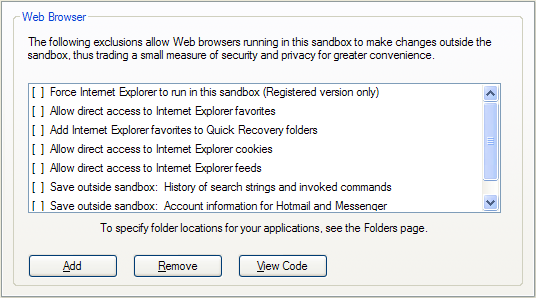
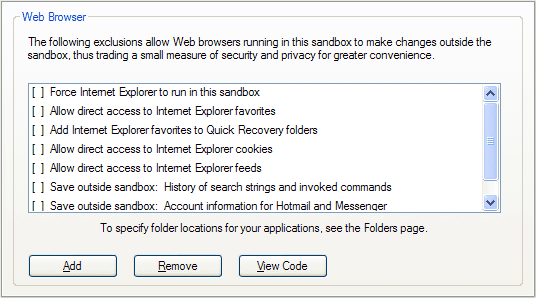
Remove registered references

Changed region(s): [[0.4776, 0.2718, 0.7164, 0.3322], [0.0896, 0.0302, 0.1493, 0.0906], [0.0299, 0.0302, 0.0597, 0.0604]]

diff --git a/Content/ProgramStartSettings.md b/Content/ProgramStartSettings.md
@@ -30,8 +30,6 @@ Notes:
 
 *   Forced Folders take precedence over [Forced Programs](ProgramStartSettings.md#forced-programs). In other words, when a program matches both a Forced Folders and a Forced Programs setting, the Forced Folder setting will apply, and the Forced Programs setting will be ignored.
 
-*   The Forced Folders setting is only available in the registered version of Sandboxie.
-
 Related [Sandboxie Ini](SandboxieIni.md) setting: [ForceFolder](ForceFolder.md).
 
 * * *
@@ -58,7 +56,5 @@ Notes:
 *   Forced Programs can be temporarily suspended using the [Disable Forced Programs](FileMenu.md#disable-forced-programs) command.
 
 *   [Forced Folders](ProgramStartSettings.md#forced-folders) take precedence over Forced Programs. In other words, when a program matches both a Forced Folders and a Forced Programs setting, the Forced Folder setting will apply, and the Forced Programs setting will be ignored.
-
-*   The Forced Programs setting is only available in the registered version of Sandboxie.
 
 Related [Sandboxie Ini](SandboxieIni.md) setting: [ForceProcess](ForceProcess.md).

diff --git a/Content/InternetExplorerTips.md b/Content/InternetExplorerTips.md
@@ -10,7 +10,7 @@
 
 #### Always Run In Sandbox
 
-*   Setting: Force Internet Explorer to run in this sandbox (Registered version only)
+*   Setting: Force Internet Explorer to run in this sandbox
 
 This setting tells Sandboxie to automatically supervise any instance of Internet Explorer as it starts, even if it was not started directly through a Sandboxie facility or command.
 
